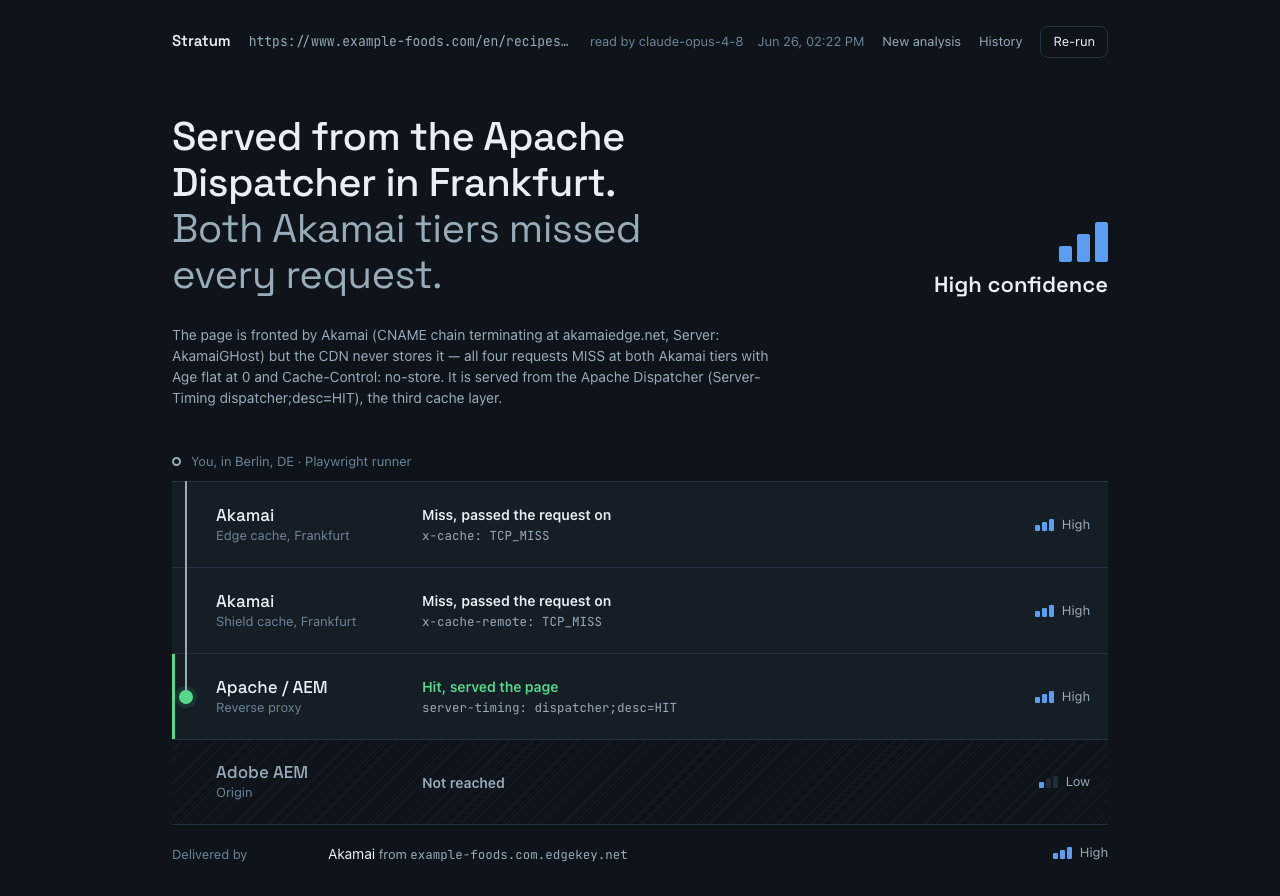
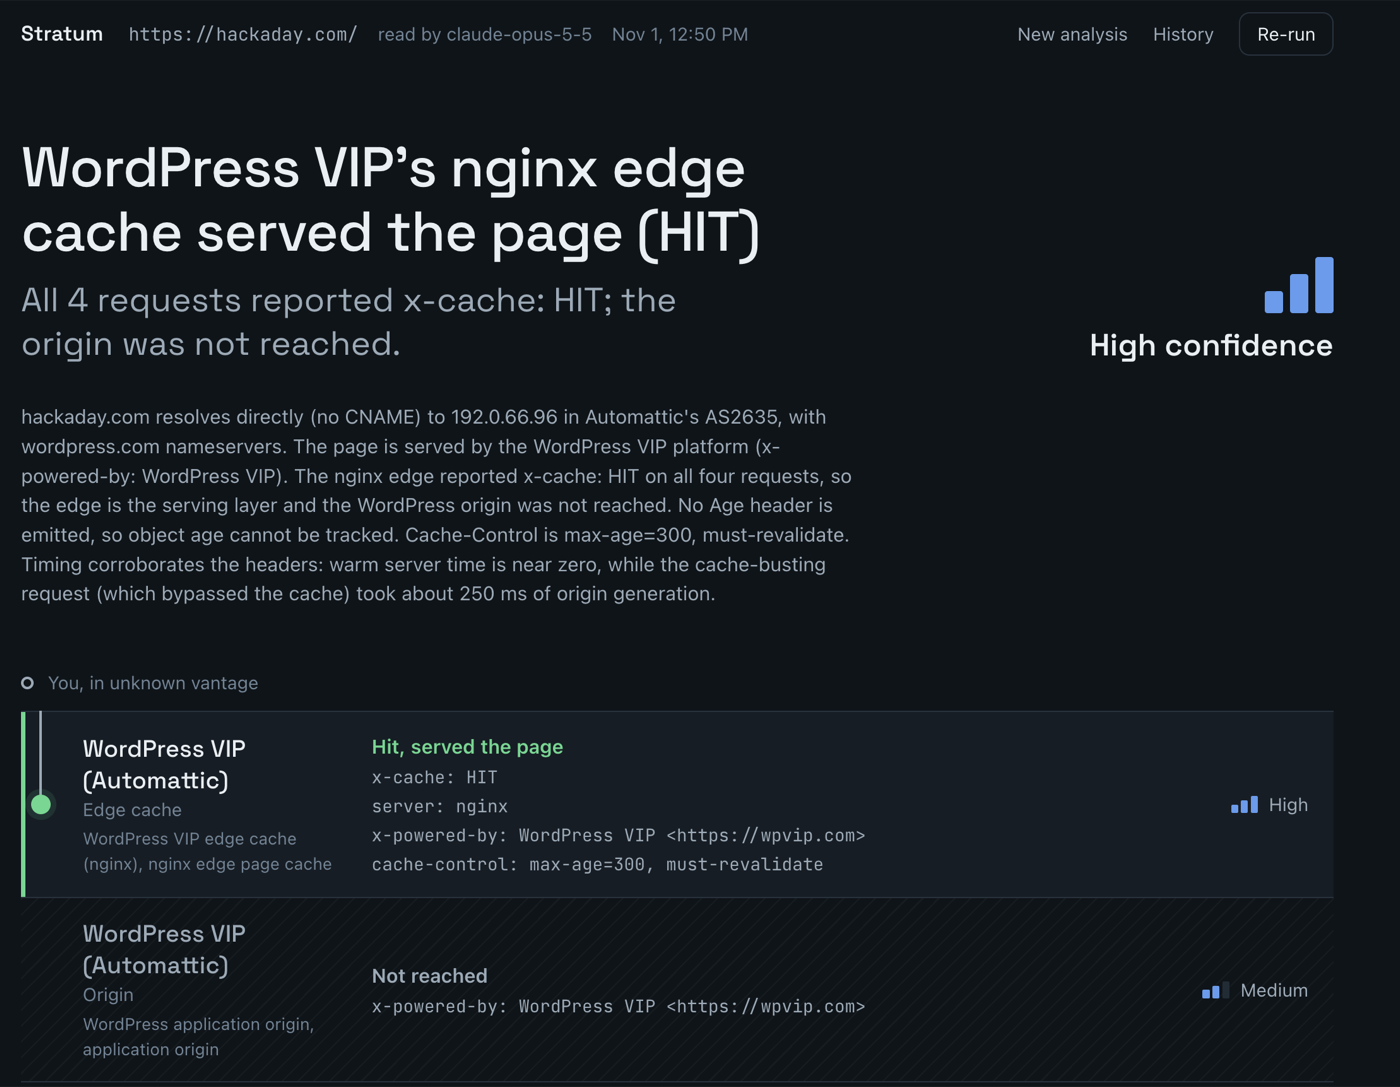
docs: README walkthrough with real-run screenshots (hackaday.com)

diff --git a/README.md b/README.md
@@ -23,33 +23,44 @@ click away.
 
 ![Launch](docs/screenshots/launch.png)
 
+While it runs, each step fills in with what it measured: DNS, the browser
+warm-up, the sampled requests, the forced miss, the route, and finally the
+model reading the evidence. Raw headers are one click away; **Cancel** stops
+the run and keeps the report.
+
+![Live run](docs/screenshots/live-run.png)
+
 ## The report
 
-The report tells one story, top to bottom.
+A real analysis of `https://hackaday.com/` (WordPress VIP), top to bottom.
 
 **The answer and the layers** — the verdict in plain words with the model's
 confidence as a signal meter, then the request's path drawn as stacked layers
-from you to the origin: each layer's role, the header that proves its state,
-and the model's confidence in that layer. The layer that served the page is
-marked; layers after it are "not reached". Who delivered the page and whether
-the timing agrees sit underneath, each with its own meter.
+from you to the origin: each layer's role, the headers that prove its state,
+the model's own name for it, and its confidence in that layer. The layer that
+served the page is marked; the origin behind it was "not reached".
 
 ![The answer and the cache layers](docs/screenshots/report-01-answer-strata.png)
 
-**What the requests showed + what to look at** — the measured values across the
-N requests (Age, Cache-Control, Via, time to first byte, time behind the edge,
-plus the cache-bust probe), with the model's per-request reading as the one
-interpreted row; then security and performance findings as a single
-severity-sorted list, each with its cited evidence and confidence.
+**What the requests showed** — the model's count of caching layers, who
+delivered the page and whether the timing agrees (each with its own meter),
+then the measured values across the requests: Age, Cache-Control, Via, time to
+first byte and time behind the edge, with the cache-bust probe as its own
+column. The model's per-request reading is the one interpreted row.
 
-![Measured values and findings](docs/screenshots/report-02-measured-findings.png)
+![Delivery, timing and measured values](docs/screenshots/report-02-measured.png)
 
-**Where it's hosted** — the vantage, DNS, the server that answered and the route
-summary; the map, hop list, route narration and raw response headers are folded
-underneath. Every claim is the model's, and every cited piece of evidence is
-machine-checked against the captured data.
+**What to look at** — security and performance findings as one
+severity-sorted list, each with its cited evidence and the model's confidence.
 
-![Where it's hosted, with the map and hop list open](docs/screenshots/report-03-hosted.png)
+![Findings](docs/screenshots/report-03-findings.png)
+
+**Where it's hosted** — the vantage, DNS, the server that answered and the
+route summary, with the DNS panel, route map, hop list, route narration and raw
+response headers folded underneath. Every claim is the model's, and every cited
+piece of evidence is machine-checked against the captured data.
+
+![Where it's hosted, with the map and hop list open](docs/screenshots/report-04-hosted.png)
 
 ## Stack
 
